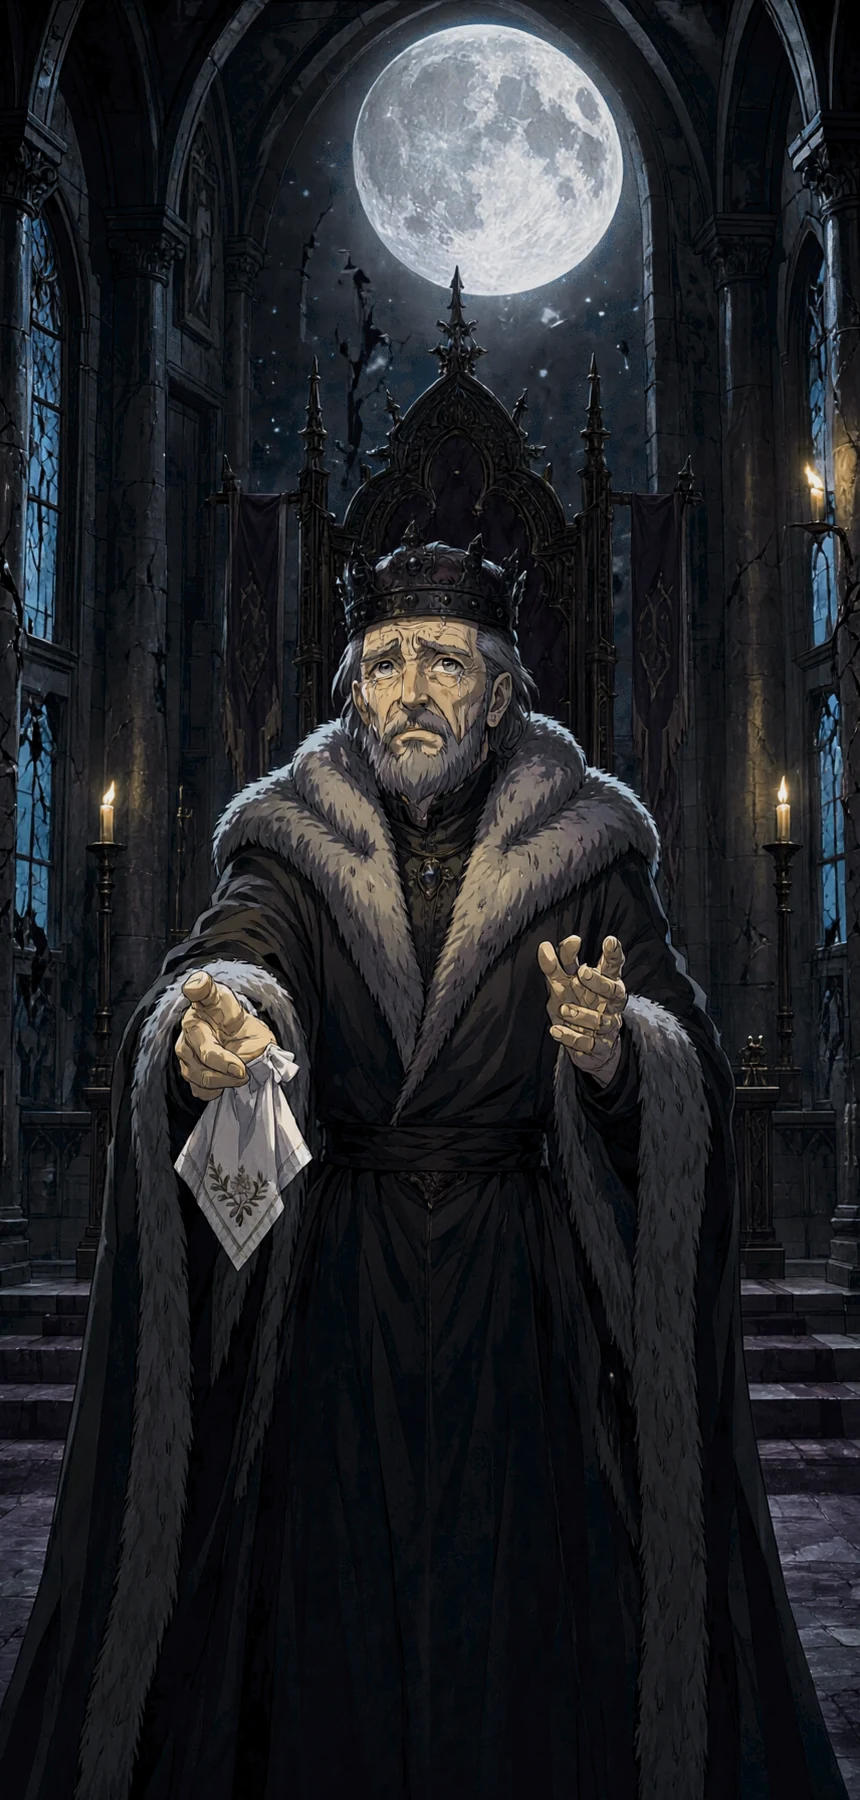
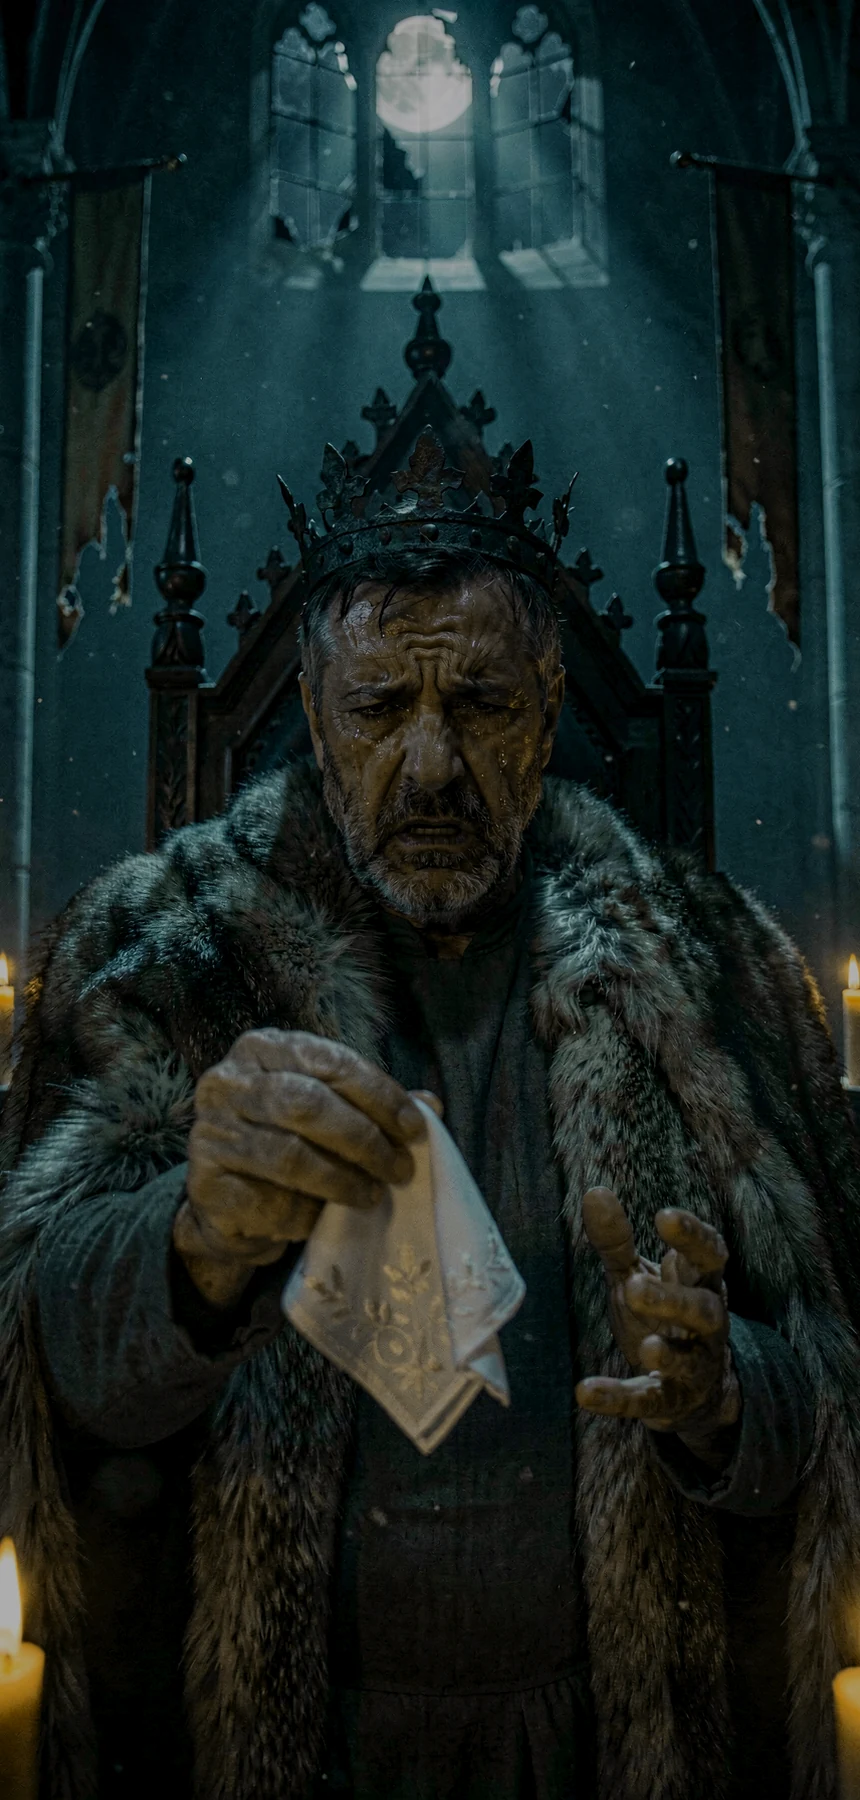
feat(art): 序章四幕改实拍电影风（公主胁迫感/国王中年/立誓语义）
- 新增 STYLE_FILM：带人物的四幕固定走实拍，painterly 词会让模型滑向动漫脸
- intro1：成年女性 + 恐惧表情（尖叫/瞳孔放大/身体后缩）
- intro2：elderly → mid-forties，去掉 gaunt/thin shoulders
- intro3：重写为骑士立誓（剑尖抵地+双手按剑柄+绣帕缠手），删掉王座
- 负向整组堵死绘画媒介；色相补偿归零（写实烛光本就 42°）
- bd-luma 11/11：序章 33.9 / 背景 29.1 / 差 4.8

diff --git a/tools/cg-gen.js b/tools/cg-gen.js
@@ -45,6 +45,22 @@ const NEG = 'people, person, character, human, figure, face, hands, text, letter
   + 'cartoon, anime, illustration, cel shading, low contrast, washed out, blurry, jpeg artifacts, '
   + 'oversaturated, lens flare, multiple light sources, cluttered, busy';
 
+// ---------- 写实电影版（2026-11-28，用户三条反馈）----------
+// 病根不在提示词细节：intro1 已经把「她抓他手腕 / 双脚离地 / 一只鞋掉了」写全了，
+// 但出来还是二次元美少女——因为 STYLE / STYLE_SOFT 里有 painterly matte painting、
+// hand-painted oil texture、fine painterly brushwork。这三个词一旦遇到人物主体，
+// 模型就整页滑向插画：皮肤变成平涂、表情被简化成动漫脸（惊吓→睁眼、痛苦→皱眉），
+// 于是「被胁迫」的物理证据全在，读出来的却是「一个美少女被扶着」。
+// 结论：**有人物的画面不能用绘画风格段**，必须锁死实拍。
+// 空镜场景（20 张）继续用 STYLE，它们的岩壁/铁门/雾气正是靠 painterly 出质感的。
+const STYLE_FILM = 'still frame from a live-action dark fantasy film, photorealistic, '
+  + 'shot on 35mm anamorphic lenses, shallow depth of field, '
+  + 'natural human skin with visible pores and fine lines, subsurface scattering, real anatomy, '
+  + 'cinematic teal and amber colour grade, one soft diffused key light, gentle shadow falloff, '
+  + 'soft atmospheric haze, floating dust motes, fine film grain, '
+  + 'vertical composition, foreground midground background layers, '
+  + 'no text, no watermark, this is a photograph of actors on a set, not a painting, not an illustration';
+
 // 有人物的场景专用：上面那份 STYLE 结尾硬写了 no people / no characters，
 // 直接拿来画序章只会出空镜（2026-11-26 实测：intro2/intro3 两页一个人都没有，
 // 旁白里国王在递绣帕、勇者在收剑，画面里只有石台）。FIG 版只去掉这一句。
@@ -78,16 +94,24 @@ const SOFT_EXTRA_NEG = ', harsh shadows, hard edged light, extreme contrast, pit
   + 'dancing, ballerina, ballet pose, waltz, pointed toes, flowing skirt, graceful leap, elegant graceful pose';
 
 function styleFor(fig, soft) {
-  const base = soft ? STYLE_SOFT : STYLE;
-  return fig ? base.replace('no people, no characters, no text', 'no text') : base;
+  // 有人物的四幕固定走实拍（--soft 对它们不生效）：见 STYLE_FILM 的注释——
+  // 绘画风格段 + 人物 = 动漫脸，这正是 11-28 用户报的「没有胁迫感 / 国王太老 / 看不懂」。
+  if (fig) return STYLE_FILM;
+  return soft ? STYLE_SOFT : STYLE;
 }
 
 function negFor(fig, soft) {
   let n = NEG;
   if (fig) {
+    // 2026-11-28：动漫否定要加倍。FLUX 在 cfg 5.0 下对单个 anime 几乎不响应，
+    // 必须把「绘画媒介」整组堵死（anime / manga / cel shading / line art / digital painting /
+    // doll-like face / big glossy eyes），否则写实提示词会被画风词拉回去。
     n = n.replace('people, person, character, human, figure, face, hands, ', '')
       + ', holding hands gently, walking together like a couple, '
-      + 'child, teenager, extra limbs, deformed hands, distorted face';
+      + 'anime, manga, cel shading, comic book, line art, inked outlines, digital painting, '
+      + 'illustration, cartoon, chibi, stylized, 3d render, cgi, '
+      + 'doll-like face, porcelain skin, big glossy eyes, simplified features, '
+      + 'child, teenager, little girl, extra limbs, deformed hands, distorted face, extra fingers';
   }
   if (soft) n += SOFT_EXTRA_NEG;
   return n;
@@ -191,27 +215,40 @@ const SCENES = {
   // 同时把「她是剪影」改成「她被月光照亮、魔王才是剪影」——柔版和暗版都能用，对比还更强。
   // 四修：舞姿止住了（死重语义有效），但魔王露出獠牙脸——比原来的纯黑剪影更像 B 级片。
   // 给它扣一顶封闭铁盔：体量压迫还在，五官和獠牙全部消失。
+  // 2026-11-28 三修（用户：公主完全没有被胁迫感）：上一版画面里她表情平静、甚至有点困惑。
+  // 物理证据（抓手腕、脚尖离地、鞋掉了）都在，缺的是**脸**和**朝向**：
+  //   · 动漫脸做不出微表情 → 已把画风锁成实拍（STYLE_FILM）；
+  //   · `head thrown back` 被画成「仰望/被托举」→ 改成 `twisted away from him`；
+  //   · 缺一句正面写恐惧 → `contorted with terror / silent scream / eyes wide with panic`；
+  //   · `young woman` 会掉进少女区 → `a grown woman in her mid-twenties`。
   intro1: 'an ancient ruined gothic throne room, low camera angle looking up, '
     + 'a huge horned demon in black armour on the left, his horns and heavy armour rimmed with cold light, '
     + 'a closed iron helm with no face opening, '
-    + 'his arm reaching down from above, his fist clamped hard around the upper arm of a young woman, '
+    + 'his arm reaching down from above, his fist clamped hard around the upper arm of a grown woman in her mid-twenties, '
     + 'she hangs from his grip as dead weight, both feet off the ground, knees bent, legs hanging limp and heavy, '
     + 'one small shoe fallen onto the red carpet below her, '
     + 'her captured arm pulled perfectly straight and taut, her shoulder wrenched upward, '
-    + 'her free hand clawing at his wrist, trying to pry his fingers open, '
-    + 'her body twisted away, head thrown back, '
+    + 'her free hand clawing at his wrist, fingers digging in to pry his grip open, '
+    + 'her body recoiling and twisting away from him, head twisted aside, '
+    + 'her face contorted with terror, mouth open in a silent scream, '
+    + 'eyes wide and glistening with panic, brows drawn up and together, '
     + 'she wears a dark grey wool dress, the skirt hangs heavy and still, '
     + 'cold moonlight behind her catches her sheer white silk stockings, '
-    + 'dark red carpet leading forward, embers rising in the air, exactly two figures, not dancing',
+    + 'dark red carpet leading forward, embers rising in the air, exactly two figures, '
+    + 'not dancing, not embracing, not a posed portrait',
   // 旁白第 2 句：「国王把绣帕塞进我手里，他的手一直在抖，只说了一句：求你。」
   // 上一版是空镜（石台上放着一方布）——STYLE 带 no people 的锅，人是被提示词禁掉的。
   // 现在改成**勇者第一人称**：国王朝镜头递帕子。一个人 + 一只手 + 一个物件，
   // 比「两人交接」稳得多（FLUX 画多人互动的失败率很高，intro1 已经验过一次）。
   // 柔和版修正：`his eyes red` 被画成发光的红眼（恐怖片标配），第二版写 `red rimmed from weeping` 依然发光。
   // 干脆不提眼睛颜色——只写「脸上有泪痕」，发光眼直接进负向。
-  intro2: 'a cold moonlit throne hall at midnight, an elderly king standing alone before his high throne, '
-    + 'a heavy dark iron crown on his head, thick fur-lined robes hanging heavy on thin shoulders, '
-    + 'a gaunt grief-stricken face wet with tears, wearing a long sorrowful expression, '
+  // 2026-11-28 三修（用户：国王太苍老）：`elderly` + `gaunt` + `thin shoulders` 三个词叠起来
+  // 直接画成了八十岁白胡子。设定里他是「手一直在抖、只说了一句求你」的君主——
+  // 是**强撑着的**中年人，不是垂危老人。改成 mid-forties，去掉 thin/gaunt，保留泪与颤抖。
+  intro2: 'a cold moonlit throne hall at midnight, a king in his mid-forties standing before his high throne, '
+    + 'a heavy dark iron crown on his head, a heavy fur-lined mantle over a plain dark tunic, '
+    + 'a strong weathered face tight with grief, jaw clenched, tears on his cheeks, '
+    + 'short dark hair with a little grey at the temples, close-trimmed beard, '
     + 'he holds out a small folded white embroidered handkerchief toward the camera with one trembling hand, '
     + 'his other hand half raised in a silent plea, '
     + 'shot from the eye level of the person standing in front of him, at arm\'s length, '
@@ -223,13 +260,23 @@ const SCENES = {
   // 用背影是刻意的——既不跟第 2 页的国王抢脸，也避开「正脸崩」。
   // 柔和版修正：`empty throne dais` 在柔光下被画成椅背上嵌一张巨脸浮雕（像神殿雕像），
   // 明确写成「空的高背椅 + 石阶」，把「神像」这条路堵掉。
-  intro3: 'a young hooded wanderer kneeling on cold stone before an empty high-backed throne on a stone dais, '
-    + 'seen from behind at a three-quarter angle, his head lifted toward the throne, '
-    + 'one fist closed tight around a small white embroidered handkerchief held against his chest, '
-    + 'a short iron sword and a rough wooden shield lying on the flagstones beside his knee, '
-    + 'worn leather cloak, crossed straps across his back, '
-    + 'cold moonlight from high broken windows, the hall enormous and empty around him, dust in the air, '
-    + 'an empty seat, no statue, no idol, no carving of a face',
+  // 2026-11-28 三修（用户：第三张不知道在表达什么）。
+  // 病根是「跪 + 捧帕 + 背后王座」这组符号：它读出来是**哀悼**或**受封**，不是立誓。
+  // 立誓有一个全世界都认得的图形语言——剑尖抵地、双手按在剑柄上。换成它，并把王座整个删掉
+  // （王座在场就会被读成「向王座效忠」）。绣帕缠在持剑的手上，把「为她而起誓」也写进同一个动作。
+  intro3: 'a young man kneeling on one knee in a dark stone chapel, '
+    + 'both hands stacked on the pommel of a short iron sword planted point-down between the flagstones, '
+    + 'his head bowed low over his hands, shoulders set, back straight, '
+    + 'a small white embroidered handkerchief tied around his sword hand, one corner hanging loose, '
+    // 2026-11-28 四修：蜡烛原来画在画面最底部（y≈88%），正是对白框压住的位置——
+    // bd-luma 的「视觉焦点 ≤78%」直接判红，玩家也看不到唯一的暖光。
+    // 改成「铁烛台立在膝旁、火焰齐腰高」，把亮点提到画面中段，顺便照亮按剑的双手。
+    + 'a single candle in a small iron holder standing beside his knee, its flame at waist height in the middle '
+    + 'of the frame, lighting his hands and the sword hilt, '
+    + 'seen from a low three-quarter angle behind him, '
+    + 'a rough wooden shield leaning against his knee, '
+    + 'bare stone walls and a low vault above, cold air, dust, '
+    + 'no throne, no chair, no dais, no statue, no idol, one figure only',
   intro4: 'the gate of a black tower at dawn seen from outside, one small hooded figure rendered as a pure black '
     + 'silhouette walking toward the open gate, warm light spilling from the doorway, cold mist on the ground',
 };

diff --git a/tools/cg-post.js b/tools/cg-post.js
@@ -46,7 +46,11 @@ const H = 1800;
 //   · 其余按各自 raw 值微调，目标都落在 meanL 22–38。
 const DIM = {
   dawn: 1.15, roof: 0.95, town: 0.86, ridge: 0.86, window: 0.90,
-  intro4: 1.00, intro2: 0.92, intro1: 0.90, intro3: 0.94,
+  // 2026-11-28：四幕换成**写实实拍**（STYLE_FILM）后整体亮了 8–12（raw 47–51，
+  // 绘画版是 30 出头）——写实皮肤的高光本来就多。系数从 0.9+ 降到 0.68–0.76，
+  // 压回 34–36，与 20 张空镜（均值 31.7）同带。
+  // 二次：序章 35.3 vs 背景 29.1＝差 6.2，咬着上限。整体再降 0.02 留一格余量。
+  intro4: 0.74, intro2: 0.68, intro1: 0.68, intro3: 0.66,
   core: 0.90, corridor: 0.88, gate: 0.90, market: 0.94, namewall: 0.92,
   stairs: 0.90, reddoor: 0.90, ledger: 0.92, forge: 0.94,
 };
@@ -77,7 +81,15 @@ const HUE_FIX = {
   gate: 26, corridor: 23, market: 24, passage: 26, wolfhall: 38, empty: 21,
   stairs: 24, throne: 36, reddoor: 38, ledger: 25, ridge: 30, town: 12,
   bell: 8, namewall: 19, carve: 24, forge: 34, core: 22, roof: 27,
-  window: 18, dawn: 13, intro1: 6, intro2: 19, intro3: 8, intro4: 12,
+  // 2026-11-28：intro2 的烛光实测 58°（柠檬黄），超上限 8 度。补偿从 19 加到 30。
+  // 其余四幕的补偿值留给下一批按实测微调，别凭感觉一次改一排。
+  // 2026-11-28 二次校准：补偿是**正向旋转**，加过头会更大——intro2 从 19 加到 30，
+  // 实测反而 58°→67°（斜率约 0.82）。按斜率倒推：intro2 要 48° ⇒ 补偿 7；
+  // intro3 新图实测 57°（补偿 8）⇒ 补偿 -3。负数合法（就是往红方向转）。
+  // 2026-11-28 三校准：补偿归零。按斜率倒推，intro2 原图本身就在 42°（黄铜族中段），
+  // 补偿 7 反而把它推到 48（偏绿）。**写实烛光本来就比绘画版更黄**，
+  // 为了让数字好看去转色相是本末倒置——42° 在 26–50 里，不动它。
+  window: 18, dawn: 13, intro1: 6, intro2: 0, intro3: 0, intro4: 12,
 };
 
 const py = String.raw`

diff --git a/PROGRESS.md b/PROGRESS.md
@@ -1363,6 +1363,10 @@
 > §八「元素登记」之后（文件末尾）**，被 §七/§八 从中间截断了。要取「最近 5 条」请用
 > `grep -n '^- 2026-' PROGRESS.md | tail -5`，别只看 §六（那会漏掉当天每一条）。结构债本身记在待办（低），不搬 700 行。
 
+- 2026-11-28：**序章四幕返工（用户三条：公主没有胁迫感 / 国王太苍老 / 第三张看不懂）**。根因不是提示词不够细（intro1 早已写到「抓手腕、脚尖离地、鞋掉了」），是**画风跑成了二次元**：`STYLE`/`STYLE_SOFT` 里的 `painterly matte painting` / `hand-painted oil texture` / `fine painterly brushwork` 一旦遇到人物主体，模型就整页滑向插画——皮肤平涂、表情简化（惊吓→睁眼、痛苦→皱眉），于是物理证据全在、读出来的却是「美少女被扶着」。①**新增 `STYLE_FILM`**：实拍电影段（35mm 变形镜、真实皮肤毛孔与细纹、teal-amber 调色、柔和主光），**带人物的四幕固定走它**（`styleFor(fig)` 直接返回，`--soft` 对它们失效）；负向整组堵死绘画媒介（anime/manga/cel shading/line art/digital painting/doll-like face/big glossy eyes）。②**intro1**：`young woman`→`a grown woman in her mid-twenties`、`head thrown back`→`twisted aside`（原词组被画成仰望）、补正面表情 `contorted with terror / silent scream / eyes wide with panic`。③**intro2**：`elderly` + `gaunt` + `thin shoulders` 三个词叠出八十岁白胡子 → 改 `king in his mid-forties`、`strong weathered face tight with grief`，保留泪与颤抖。④**intro3**：重写成**骑士立誓**图形语言——剑尖抵地、双手按剑柄、绣帕缠在持剑的手上、膝旁铁烛台；删掉王座（王座在场就会被读成「向王座效忠」，这才是「看不懂」的真因）。⑤**闸门**：蜡烛原来在 y≈88%（对白框压住），改到腰高后焦点过；`HUE_FIX` 补偿归零（写实烛光本就 42°，为凑数字转色相会让画面发绿，本末倒置）。
+  闸门：bd-luma 11/11（序章 33.9 / 背景 29.1 / 差 4.8；暖光极差 18°）；regress 全绿。
+  ｜加练：美术（画风纠正）｜变体：无（用户报障直修）｜薄弱层：表层｜阻塞：无
+
 ## 七、上线后看板
 
 > 提审/上线后开始填。基准线：次留 25–35%（休闲）、时长 15min+、广告人均观看 3–6 次/日为健康（EXP-01 H-05b/H-01）。
